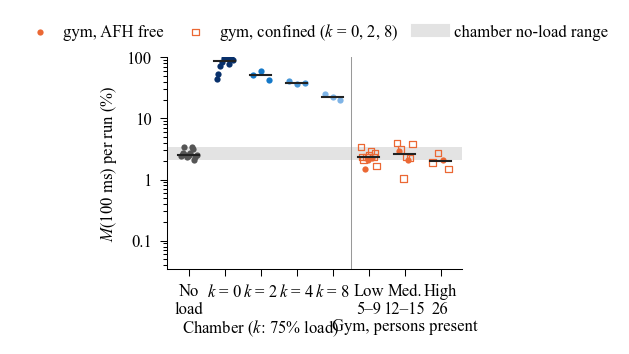
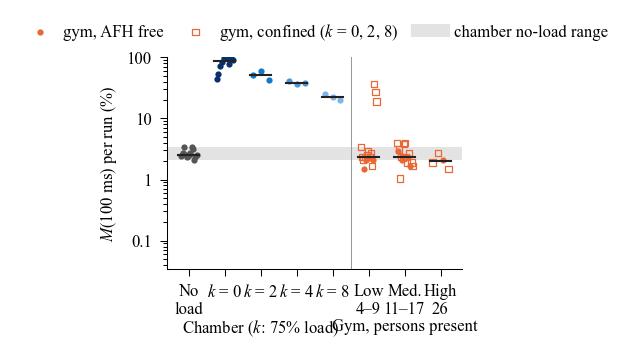
Regenerate gym_SPZ_20261016_103145 and pooled analysis with its headcounts
background/people.csv for the 2026-10-16 gym session was entered on
2026-10-23, after the committed analysis ran. Re-running analyze_session
1.4.3 adds people_at_start (4-17) to that session's per_run.csv and its
blocks to the pooled people-vs-miss data; every other value is unchanged.
Matches the paper's gym table (4-17 persons) and figure data.

Changed region(s): [[0.5739, 0.3729, 0.6645, 0.5282], [0.5437, 0.839, 0.6948, 0.9011], [0.5739, 0.2175, 0.6041, 0.3107]]

diff --git a/analysis/gym_SPZ_20261016_103145/report.md b/analysis/gym_SPZ_20261016_103145/report.md
@@ -1,7 +1,7 @@
 # Session gym_SPZ_20261016_103145
 
 Input: `captures/gym_SPZ_20261016_103145`  
-Analyzed: 2026-10-21T12:12:10 (analyze_session.py 1.4.3)  
+Analyzed: 2026-10-27T13:29:43 (analyze_session.py 1.4.3)  
 Runs: 24 analyzed, 0 excluded
 
 No-load window starts 40 s after driver launch (default, no loaded runs).  
